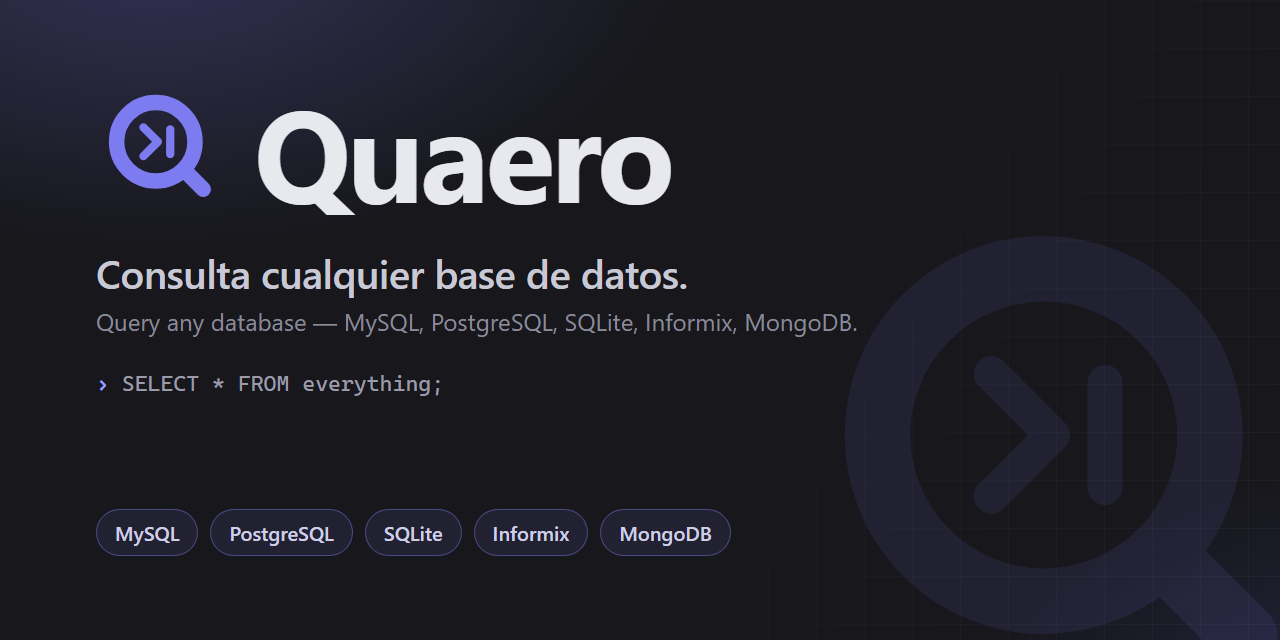
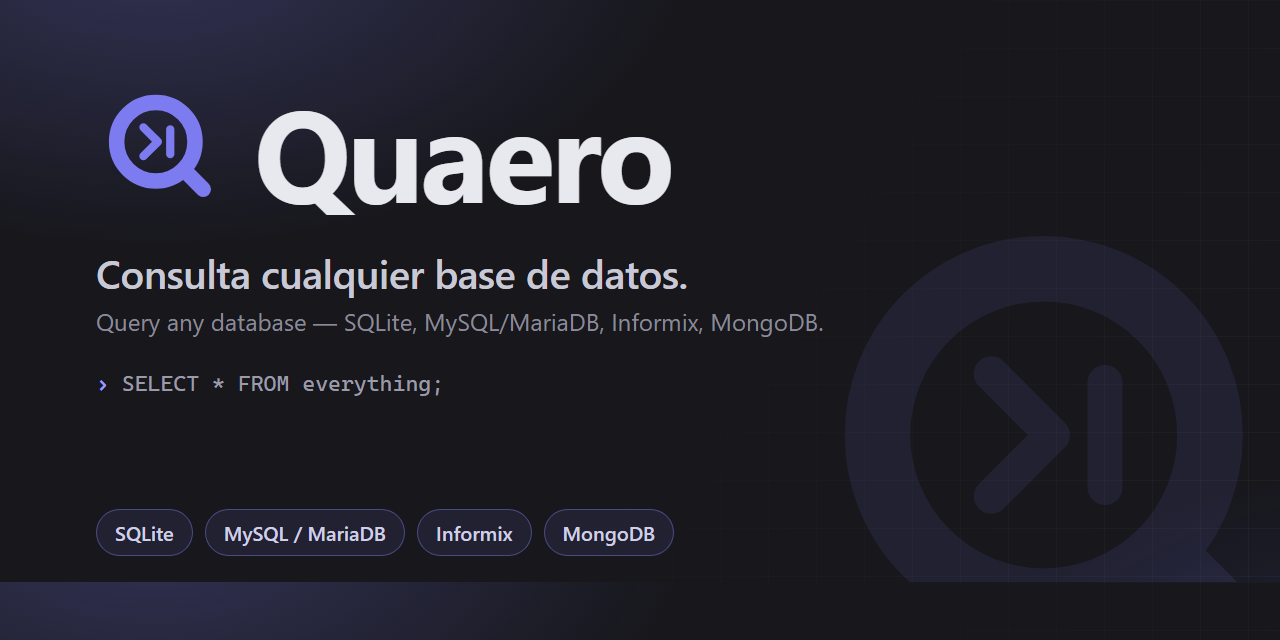
assets(media): drop PostgreSQL from social preview (not a shipped engine) (#255)
Quaero ships SQLite, MySQL/MariaDB, Informix and MongoDB; Postgres is
post-deploy. The hero/social banner listed it — corrected to the four
real engines so the landing page and repo social preview do not overstate
support.

diff --git a/assets/media/social-preview.html b/assets/media/social-preview.html
@@ -68,12 +68,11 @@
     <div class="name">Quaero</div>
   </div>
   <div class="tagline">Consulta cualquier base de datos.</div>
-  <div class="taglineEn">Query any database — MySQL, PostgreSQL, SQLite, Informix, MongoDB.</div>
+  <div class="taglineEn">Query any database — SQLite, MySQL/MariaDB, Informix, MongoDB.</div>
   <div class="prompt"><b>&rsaquo;</b> SELECT * FROM everything;</div>
   <div class="engines">
-    <span class="chip">MySQL</span>
-    <span class="chip">PostgreSQL</span>
     <span class="chip">SQLite</span>
+    <span class="chip">MySQL / MariaDB</span>
     <span class="chip">Informix</span>
     <span class="chip">MongoDB</span>
   </div>